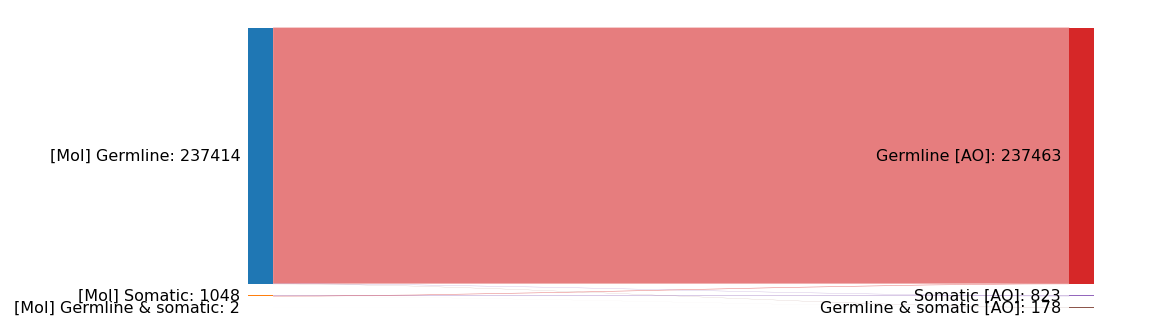
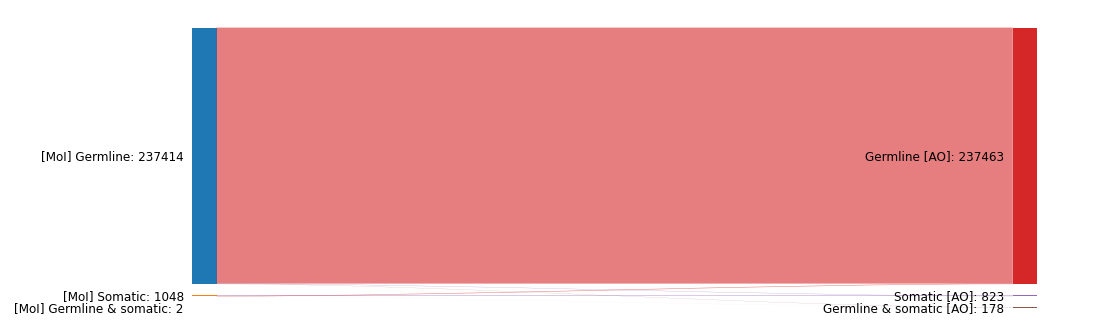
update diagrams and tables

diff --git a/data-exploration/clinvar-variant-types/clinvar-variant-types.py b/data-exploration/clinvar-variant-types/clinvar-variant-types.py
@@ -173,8 +173,8 @@ def main(clinvar_xml, process_items=None):
     sankey_variation_representation = SankeyDiagram('variant-types.png', 1200, 600)
     sankey_trait_representation = SankeyDiagram('traits.png', 1200, 400)
     sankey_trait_xrefs = SankeyDiagram('trait-xrefs.png', 1200, 400)
-    sankey_clinical_classification = SankeyDiagram('clinical-classification.png', 1600, 800)
-    sankey_star_rating = SankeyDiagram('star-rating.png', 1400, 600)
+    sankey_clinical_classification = SankeyDiagram('clinical-classification.png', 1400, 800)
+    sankey_star_rating = SankeyDiagram('star-rating.png', 1400, 800)
     sankey_mode_of_inheritance = SankeyDiagram('mode-of-inheritance.png', 1200, 500)
     sankey_allele_origin = SankeyDiagram('allele-origin.png', 1200, 600)
     sankey_inheritance_origin = SankeyDiagram('inheritance-origin.png', 1200, 400)
@@ -184,11 +184,11 @@ def main(clinvar_xml, process_items=None):
     counter_clin_class_complex = SupplementaryTableCounter('Complex clinical classification levels', 'Clinical classification')
     counter_clin_class_all = SupplementaryTableCounter('All clinical classification levels', 'Clinical classification')
     table_multiple_clin_class_assertions = SupplementaryTable(
-        'Multiple clinical classification assertions', ['RCV', 'Assertion types'], sort_lambda=lambda x: (x[1], x[0]))
+        'Multiple clinical classification assertions', ['RCV', 'Assertions'], sort_lambda=lambda x: (x[1], x[0]))
     counter_star_rating = SupplementaryTableCounter(
         'Distribution of records by star rating', 'Star rating', sort_lambda=lambda x: x[0])
-    counter_obs_method_type = SupplementaryTableCounter('All observation method types', 'Observation method type')
-    counter_full_obs_method_type = SupplementaryTableCounter('Observation method types', 'Observation method type')
+    counter_obs_method_type = SupplementaryTableCounter('Observation method types', 'Observation method type')
+    counter_full_obs_method_type = SupplementaryTableCounter('Distribution of records by observation method type', 'Observation method type')
     table_multiple_mode_of_inheritance = SupplementaryTable(
         'Multiple mode of inheritance', ['RCV', 'Modes of inheritance'], sort_lambda=lambda x: (x[1], x[0]))
     counter_multiple_allele_origin = SupplementaryTableCounter('Multiple allele origins', 'Allele origins')
@@ -267,7 +267,7 @@ def main(clinvar_xml, process_items=None):
                     # In this case we summarise each assertion and add to the supplementary table
                     sankey_clinical_classification.add_transitions('Variant', class_cardinality, class_type,
                                                                    'Multiple assertions')
-                    multiple_assertions = ', '.join(f'{elem.attrib.get("ClinicalImpactAssertionType")}|{elem.attrib.get("ClinicalImpactClinicalSignificance")}|{elem.text}'
+                    multiple_assertions = ', '.join(f'{elem.attrib.get("ClinicalImpactAssertionType")}/{elem.attrib.get("ClinicalImpactClinicalSignificance")}/{elem.text}'
                                                     for cc in clinvar_record.clinical_classifications
                                                     for elem in find_elements(cc.class_xml, './Description'))
                     table_multiple_clin_class_assertions.add_row([rcv_to_link(rcv_id), multiple_assertions])

diff --git a/data-exploration/clinvar-variant-types/supplementary-tables.md b/data-exploration/clinvar-variant-types/supplementary-tables.md
@@ -1,3 +1,16 @@
+## All trait cross-references
+Source|Count
+:--|:--
+MedGen|5199733
+MONDO|2395103
+OMIM|1988569
+Orphanet|1676005
+MeSH|636549
+Human Phenotype Ontology|513248
+EFO|7556
+Gene|4432
+EFO: The Experimental Factor Ontology|448
+
 ## Complex clinical significance levels
 Clinical significance|Count
 :--|:--
@@ -79,6 +92,13 @@ tier i - strong|5
 association not found|5
 tier ii - potential|3
 
+## Multiple clinical classification assertions
+RCV|Assertions
+:--|:--
+[RCV000426735](https://www.ncbi.nlm.nih.gov/clinvar/RCV000426735/)|None/None/Uncertain significance, diagnostic/supports diagnosis/Tier I - Strong, prognostic/poor outcome/Tier I - Strong
+[RCV003883131](https://www.ncbi.nlm.nih.gov/clinvar/RCV003883131/)|diagnostic/supports diagnosis/Tier I - Strong, prognostic/better outcome/Tier I - Strong
+
+
 ## Distribuion of records by star rating
 Star rating|Count
 :--|:--
@@ -87,6 +107,180 @@ Star rating|Count
 ★★☆☆|348899
 ★☆☆☆|4245851
 ☆☆☆☆|319376
+
+## Observation method types
+Observation method type|Count
+:--|:--
+clinical testing|5082906
+not provided|129440
+research|72668
+literature only|65779
+curation|54414
+reference population|19804
+phenotyping only|5115
+case-control|3332
+provider interpretation|2179
+in vitro|1058
+in vivo|388
+
+## Distribution of records by observation method type
+Observation method type|Count
+:--|:--
+clinical testing|4609337
+clinical testing, not provided|107333
+research|51544
+literature only|42612
+clinical testing, curation|25303
+curation|23901
+not provided|20936
+clinical testing, literature only|12609
+clinical testing, research|11728
+missing|6720
+phenotyping only|2846
+case-control|2755
+reference population|2380
+clinical testing, literature only, research|1727
+clinical testing, phenotyping only|1310
+provider interpretation|1274
+literature only, research|1268
+clinical testing, reference population|1147
+clinical testing, curation, literature only|1131
+curation, literature only|990
+clinical testing, curation, research|621
+clinical testing, provider interpretation|610
+clinical testing, curation, literature only, research|534
+clinical testing, literature only, not provided|514
+clinical testing, in vitro|280
+curation, research|279
+in vitro, research|269
+in vivo, research|233
+case-control, clinical testing|202
+clinical testing, not provided, phenotyping only|185
+clinical testing, in vitro, research|159
+clinical testing, not provided, research|123
+curation, literature only, research|101
+literature only, not provided|96
+in vitro|95
+clinical testing, phenotyping only, research|94
+clinical testing, in vivo|88
+not provided, phenotyping only|74
+clinical testing, literature only, phenotyping only|73
+case-control, clinical testing, curation|71
+clinical testing, literature only, provider interpretation|70
+clinical testing, curation, not provided|62
+clinical testing, provider interpretation, research|51
+clinical testing, in vitro, literature only|44
+clinical testing, literature only, phenotyping only, research|43
+clinical testing, reference population, research|41
+literature only, provider interpretation|38
+clinical testing, curation, literature only, phenotyping only, research|34
+clinical testing, literature only, reference population|32
+curation, not provided|31
+case-control, literature only|29
+clinical testing, curation, phenotyping only|26
+curation, in vitro|25
+clinical testing, literature only, provider interpretation, research|24
+case-control, clinical testing, research|24
+not provided, research|23
+case-control, clinical testing, literature only|23
+clinical testing, curation, literature only, phenotyping only|21
+in vivo|21
+clinical testing, curation, reference population|20
+provider interpretation, research|19
+phenotyping only, research|19
+case-control, research|18
+literature only, reference population|17
+case-control, clinical testing, literature only, research|15
+literature only, phenotyping only|13
+clinical testing, in vitro, literature only, research|13
+in vitro, literature only|12
+case-control, in vitro|11
+case-control, clinical testing, curation, research|11
+clinical testing, curation, literature only, not provided, research|11
+in vitro, in vivo, research|10
+in vitro, literature only, research|10
+case-control, clinical testing, curation, literature only, research|10
+clinical testing, curation, phenotyping only, research|10
+clinical testing, in vivo, research|10
+clinical testing, in vitro, in vivo|10
+clinical testing, curation, in vitro|9
+clinical testing, literature only, not provided, research|9
+clinical testing, literature only, reference population, research|9
+reference population, research|8
+curation, provider interpretation, research|8
+clinical testing, curation, provider interpretation|7
+curation, literature only, provider interpretation|6
+clinical testing, curation, reference population, research|6
+clinical testing, curation, literature only, not provided|6
+clinical testing, curation, in vitro, research|6
+case-control, curation|5
+curation, phenotyping only|5
+clinical testing, curation, literature only, provider interpretation|5
+curation, reference population|5
+case-control, clinical testing, in vitro|5
+clinical testing, curation, literature only, provider interpretation, research|4
+clinical testing, phenotyping only, provider interpretation|4
+clinical testing, not provided, provider interpretation|4
+clinical testing, curation, literature only, reference population|4
+case-control, clinical testing, curation, literature only|4
+case-control, clinical testing, in vitro, literature only|4
+clinical testing, in vitro, not provided|4
+curation, provider interpretation|4
+case-control, in vivo|3
+literature only, not provided, research|3
+clinical testing, curation, in vitro, literature only|3
+clinical testing, in vitro, provider interpretation|3
+clinical testing, literature only, not provided, phenotyping only|3
+in vitro, in vivo|2
+clinical testing, curation, literature only, reference population, research|2
+clinical testing, curation, provider interpretation, research|2
+case-control, literature only, research|2
+case-control, clinical testing, literature only, phenotyping only, research|2
+clinical testing, curation, literature only, phenotyping only, provider interpretation, research|2
+clinical testing, in vitro, phenotyping only, research|2
+clinical testing, not provided, provider interpretation, research|2
+clinical testing, in vivo, literature only|2
+case-control, clinical testing, curation, literature only, phenotyping only|2
+clinical testing, literature only, not provided, provider interpretation, research|2
+clinical testing, curation, in vitro, literature only, research|2
+curation, literature only, not provided|1
+in vivo, literature only, research|1
+curation, not provided, research|1
+phenotyping only, reference population, research|1
+case-control, provider interpretation|1
+clinical testing, curation, in vivo|1
+clinical testing, literature only, phenotyping only, provider interpretation, research|1
+phenotyping only, provider interpretation|1
+case-control, clinical testing, reference population|1
+literature only, provider interpretation, research|1
+case-control, clinical testing, literature only, not provided, research|1
+clinical testing, curation, literature only, not provided, phenotyping only, research|1
+clinical testing, curation, phenotyping only, provider interpretation|1
+case-control, clinical testing, not provided|1
+clinical testing, in vivo, literature only, research|1
+case-control, clinical testing, phenotyping only, research|1
+clinical testing, curation, in vitro, phenotyping only, research|1
+not provided, provider interpretation|1
+case-control, clinical testing, literature only, provider interpretation, research|1
+clinical testing, curation, not provided, provider interpretation|1
+clinical testing, literature only, not provided, provider interpretation|1
+in vitro, provider interpretation|1
+clinical testing, not provided, phenotyping only, research|1
+case-control, in vitro, in vivo, research|1
+in vitro, literature only, phenotyping only|1
+in vitro, in vivo, literature only|1
+in vivo, not provided, research|1
+case-control, reference population|1
+curation, in vitro, research|1
+case-control, clinical testing, curation, literature only, phenotyping only, provider interpretation, research|1
+clinical testing, not provided, phenotyping only, provider interpretation|1
+literature only, phenotyping only, research|1
+clinical testing, literature only, phenotyping only, provider interpretation|1
+case-control, not provided|1
+clinical testing, phenotyping only, provider interpretation, research|1
+curation, reference population, research|1
+in vitro, reference population|1
+
 
 ## Multiple mode of inheritance
 RCV|Modes of inheritance
